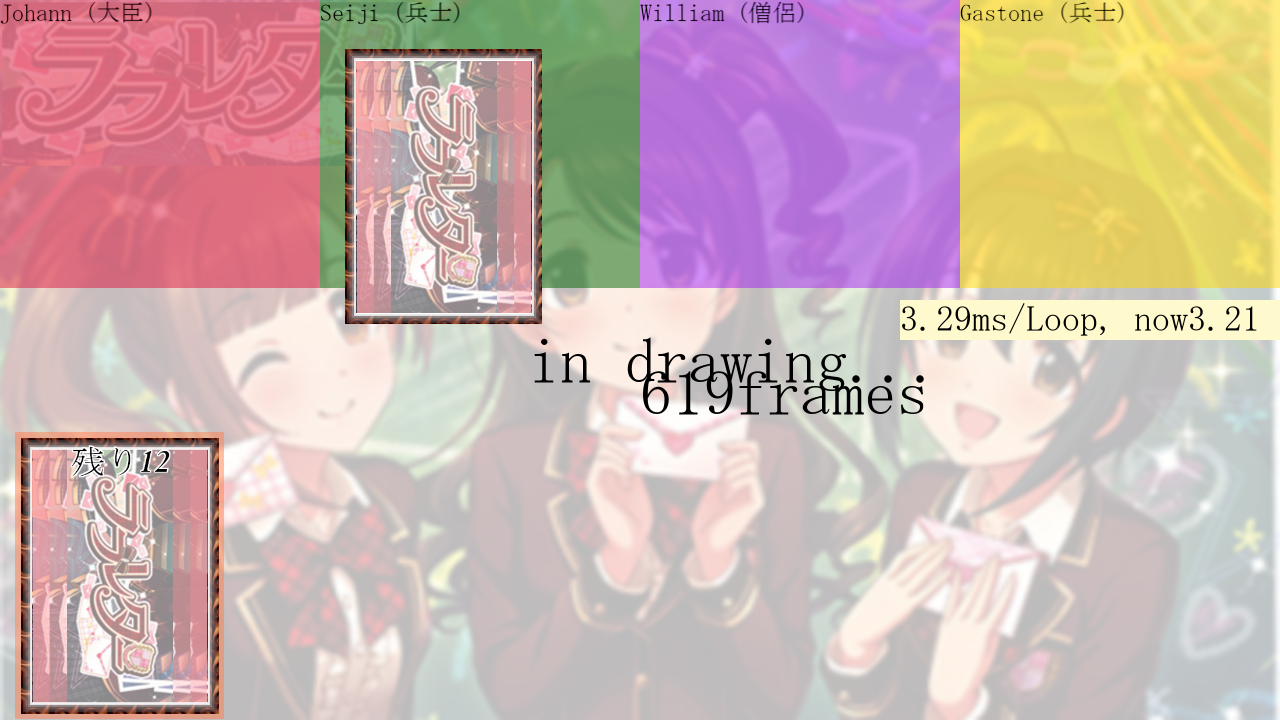
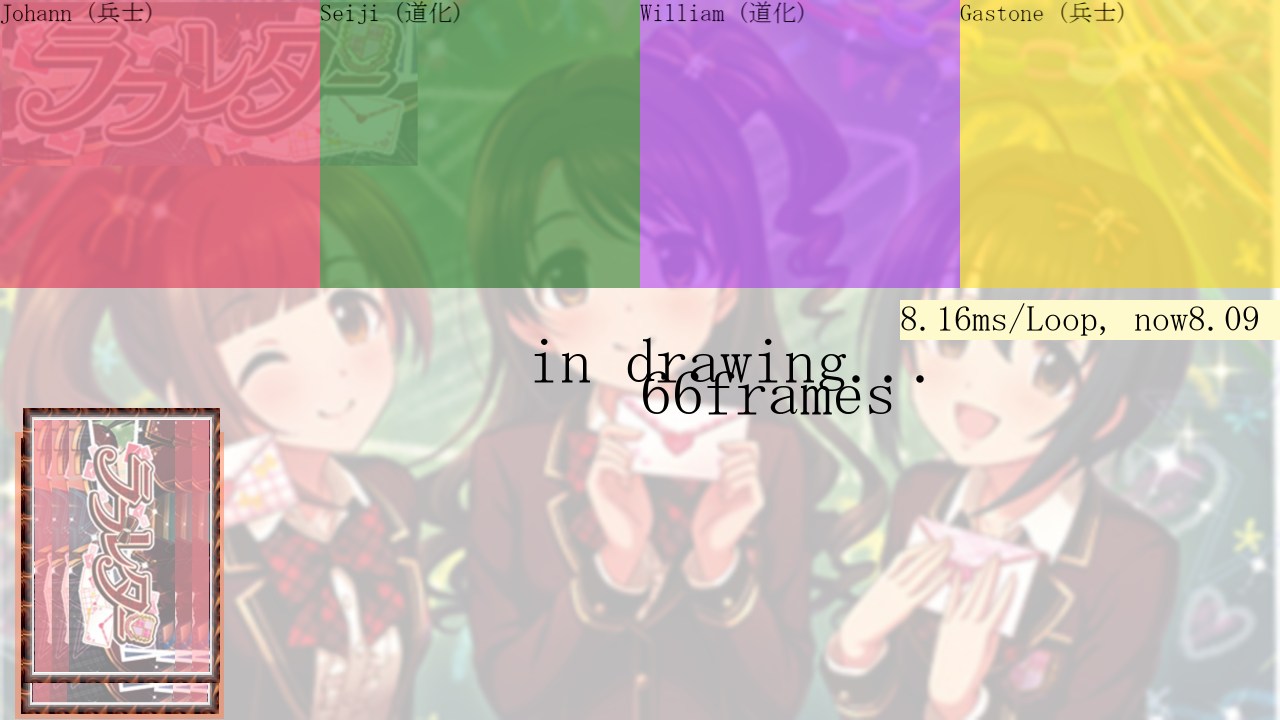
L045:frames依存でモーションを作成

diff --git a/ll/any/timer_functions.py b/ll/any/timer_functions.py
@@ -1,4 +1,3 @@
-import pygame
 from pygame import Rect
 from time import time
 from typing import Callable
@@ -12,7 +11,6 @@ _DEST = (WX-380, 300)
 _SIZE = (380, 40)
 
 def timer_functions() -> tuple[Callable[[], None], Callable[[], None], Callable[[], int]]:
-    from time import time
     log = 0.0
     times = [0.01]*FRAMES_PER_SECOND
     frame_count = 0
@@ -26,7 +24,6 @@ def timer_functions() -> tuple[Callable[[], None], Callable[[], None], Callable[
         times.append(elapsed_time)
         times.pop(0)
         rect_fill(color="lemonchiffon", rect=Rect((_DEST), (_SIZE)))
-        # pygame.draw.rect(surface=screen, color="lemonchiffon", rect=[WX-340, 240, WX, 40], width=0)
         screen.blit(source=MS_MINCHO_COL(
             f"{(sum(times)/FRAMES_PER_SECOND*1000):.2f}ms/Loop, now{round(elapsed_time*1000, 2):.2f}", _FONT_SIZE, "black"),
             dest=_DEST)

diff --git a/ll/view/draw_view.py b/ll/view/draw_view.py
@@ -2,9 +2,13 @@ from pygame import Surface, Vector2 as V2
 from typing import Callable
 
 from any.font import MS_MINCHO_COL
-from any.screen import screen, WX, WY
+from any.screen import screen, WX, WY, FRAMES_PER_SECOND
 from any.timer_functions import frames
 from ptc.element import Element
+
+_SECONDS = 0.5
+_WAIT = int(FRAMES_PER_SECOND*_SECONDS)
+print(_WAIT)
 
 from ptc.view import View
 # from ptc.element import Element
@@ -31,5 +35,5 @@ class DrawView():
         )
         screen.blit(
             source=self.img_back,
-            dest=self.from_v2.lerp(self.to_v2, (frames()-self.frames)/180)-V2(self.img_back.get_size())/2
+            dest=self.from_v2.lerp(self.to_v2, (frames()-self.frames)/_WAIT)-V2(self.img_back.get_size())/2
         )
